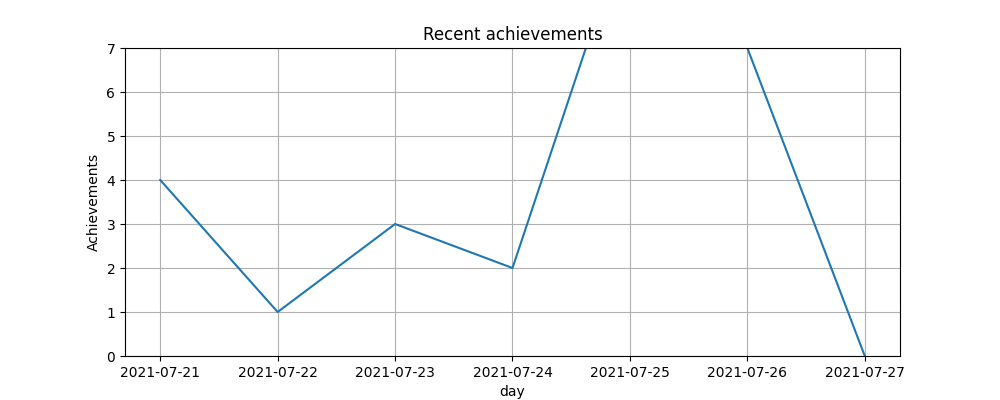
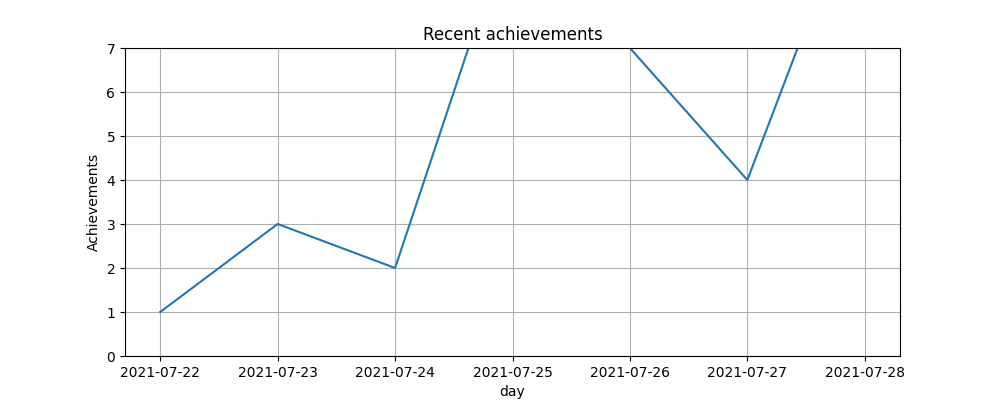
個人ごとのグラフ作成機能の追加

diff --git a/usergragh.py b/usergragh.py
@@ -1,0 +1,58 @@
+import datetime
+from datetime import date,timedelta
+import mysql.connector
+import matplotlib.pyplot as plt
+import math
+import numpy as np
+
+
+def search(id,name):
+     dns = {
+    'user': 'b7933a15d37230',
+    'host': 'us-cdbr-east-04.cleardb.com', # 各自設定
+    'password': 'da33b80d', # 各自設定
+    'database': 'heroku_fab7e2e9408003b', # 各自設定
+    'port': '3306'}
+     db = mysql.connector.connect(**dns)
+     cursor = db.cursor(buffered = True)
+     cursor.execute('SELECT * FROM userfinish WHERE day = %s AND username = %s LIMIT 1',(id,name))
+     row = cursor.fetchone()
+     cursor.close()
+     db.close()
+     return row
+
+
+def userfinish(name):
+    today = datetime.date.today ()
+
+    a = today - timedelta(days=1)
+    b = today - timedelta(days=2)
+    c = today - timedelta(days=3)
+    d = today - timedelta(days=4)
+    e = today - timedelta(days=5)
+    f = today - timedelta(days=6)
+
+    today_finish = search(today,name)[1]
+    a_finish = search(a,name)[1]
+    b_finish = search(b,name)[1]
+    c_finish = search(c,name)[1]
+    d_finish = search(d,name)[1]
+    e_finish = search(e,name)[1]
+    f_finish = search(f,name)[1]
+
+    #plt.style.use('fivethirtyeight')
+
+    y = np.array([today_finish,a_finish,b_finish,c_finish,d_finish,e_finish,f_finish])
+    x = np.array([today,a,b,c,d,e,f])
+    plt.figure(figsize=(10, 4))
+    plt.plot(x,y)
+    plt.title('Recent achievements')
+    plt.ylabel('Achievements')
+    plt.xlabel('day')
+    plt.ylim(0, 7)
+    plt.grid()
+
+    #plt.figure(figsize=(9, 9))
+    plt.savefig('./static/img/f_gragh{}.png'.format(name))
+
+#sns.set(plt)

diff --git a/app.py b/app.py
@@ -8,6 +8,7 @@ from linebot import (LineBotApi, WebhookHandler)
 from linebot.exceptions import (InvalidSignatureError)
 from linebot.models import (MessageEvent, TextMessage, TextSendMessage,TemplateSendMessage,CarouselTemplate, CarouselColumn,ButtonsTemplate,MessageAction)
 import schedule
+import usergragh
 import time
 import os
 
@@ -262,9 +263,13 @@ def finish(id):
         print(date)
         num = selctcommand1(dbstart(),'SELECT * FROM todofinish WHERE day = %s LIMIT 1;',(date,))
         sum = num[1]+1
+        usernum = selctcommand1(dbstart(),'SELECT * FROM userfinish WHERE day = %s AND username = %s LIMIT 1;',(date,name))
+        print(usernum[1])
+        usum = usernum[1]+1
         sqlcommand1(dbstart(),'UPDATE todofinish SET noa = %s WHERE day = %s;',(sum,date))
-        #glaph()
+        sqlcommand1(dbstart(),'UPDATE userfinish SET noa = %s WHERE day = %s AND username = %s;',(usum,date,name))
         import glaph
+        usergragh.userfinish(name)
         return redirect("/")
 
 #編集""
